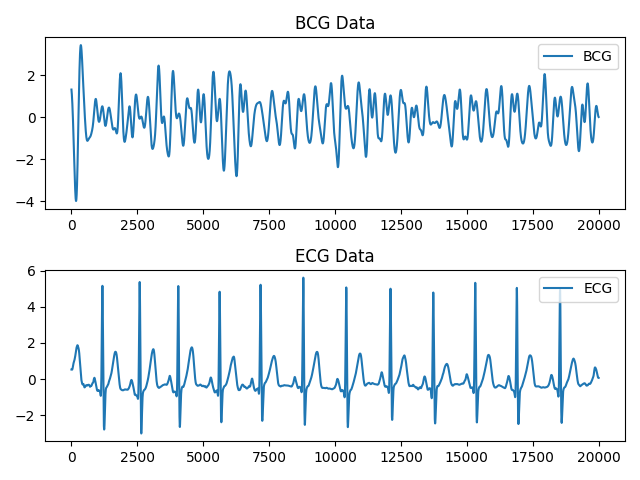
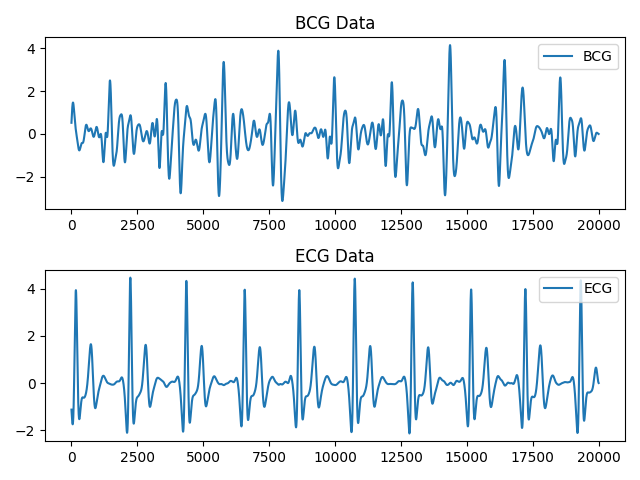
message

diff --git a/train.py b/train.py
@@ -2,31 +2,48 @@ from data.dataloader import MyDataModule
 from model.resnet import ResNet
 import torch
 import matplotlib.pyplot as plt
+from wuji.Preprocessor.signal import interp_heartbeat
+from utils.get_rri import get_rri
 
 def visualize(epoch, batch, output):
     print("Visualizing")
     bcg = batch["input"][0].numpy()
     ecg = batch["target"][0].numpy()
     rec = output.squeeze(1)[0].detach().cpu().numpy()
-    plt.figure(figsize=(10, 6))
-    plt.subplot(3, 1, 1) 
+    plt.figure(figsize=(10, 12))
+    plt.subplot(5, 1, 1) 
     plt.plot(bcg, label='BCG')
     plt.legend()
     plt.title('BCG Data')
 
-    plt.subplot(3, 1, 2)  
+    plt.subplot(5, 1, 2)  
     plt.plot(ecg, label='ECG')
+    ecg_rri = get_rri(ecg)
     plt.legend()
     plt.title('ECG Data')
 
-    plt.subplot(3, 1, 3)  
+    plt.subplot(5, 1, 3)  
+    plt.plot(ecg_rri, label='ECG_RRI')
+    plt.legend()
+    plt.title('ECG_RRI Data')
+
+    plt.subplot(5, 1, 4)  
     plt.plot(rec, label='REC')
+    rec_rri = get_rri(rec)
     plt.legend()
     plt.title('REC Data')
-    plt.tight_layout()
-    plt.savefig(f"./checkpoints/{epoch}.png")
-    print("Visualized")
 
+    plt.subplot(5, 1, 5)  
+    plt.plot(rec_rri, label='REC_RRI')
+    plt.legend()
+    plt.title('REC Data')
+
+    plt.tight_layout()
+
+    plt.savefig(f"./checkpoints_2/{epoch}.png")
+    print("Visualized")
+    
+	
 def main():
     dataloader = MyDataModule(
         dataprovider={
@@ -44,25 +61,13 @@ def main():
         },
     )
     dataloader.setup("fit")
-    model = ResNet(nf=16).to("cuda")
+    model = ResNet().to("cuda")
     optimizer = torch.optim.Adam(model.parameters(), lr=0.001)
     loss = []
     cur_loss = []
     tot_step = 0
     #wandb.init(project="bcg2psg")
     for epoch in range(50):
-        model.train()
-        for batch in dataloader.train_dataloader():
-            #print(batch["input"].shape)
-            tot_step += batch["input"].shape[0]
-            _ = model.get_loss(batch)
-            _.backward()
-            optimizer.step()
-            cur_loss.append(_.item())
-            if tot_step % 100 == 0:
-                loss.append(sum(cur_loss) / len(cur_loss))
-                print("Train Step: ", tot_step, "Loss: ", loss[-1])
-                cur_loss = []
         model.eval()
         val_loss = []
         with torch.no_grad():
@@ -71,7 +76,19 @@ def main():
                 val_loss.append(_.item())
                 if i == 0:
                     visualize(epoch, batch, model(batch["input"].to("cuda").unsqueeze(1)))
-
         print("Validation Loss: ", sum(val_loss) / len(val_loss))
+        model.train()
+        for batch in dataloader.train_dataloader():
+            #print(batch["input"].shape)
+            tot_step += 1
+            _ = model.get_loss(batch)
+            _.backward()
+            optimizer.step()
+            cur_loss.append(_.item())
+            if tot_step % 100 == 0:
+                loss.append(sum(cur_loss) / len(cur_loss))
+                print("Train Step: ", tot_step, "Loss: ", loss[-1])
+                cur_loss = []
+
 if __name__ == "__main__":
     main()

diff --git a/data/dataloader.py b/data/dataloader.py
@@ -48,7 +48,7 @@ class MyDataProvider(DataProvider[Path]):
                 with np.load(f"{data_root}/{src}/psg_quality_ecg_ECG II.npz") as f:
                     ecg_quality = f["quality"]
                     ecg_quality_freq = f["fs"]
-                for l in range(0, int(len(bcg_quality)//bcg_quality_freq) - 100, 1000):
+                for l in range(0, int(len(bcg_quality)//bcg_quality_freq) - 100, 50):
                     r = l + 10
                     # bcg_q.append(np.mean(bcg_quality[int(l * bcg_quality_freq) : int(r * bcg_quality_freq)]))
                     if np.mean(bcg_quality[int(l * bcg_quality_freq) : int(r * bcg_quality_freq)]) < 0.6:
@@ -60,11 +60,24 @@ class MyDataProvider(DataProvider[Path]):
                     bcg = nk.signal_filter(bcg, sampling_rate=bcg_freq.item(), lowcut=3, highcut=11).astype(np.float32)
                     bcg = zscore(bcg)
                     ecg = ecg_feature[l * ecg_freq : r * ecg_freq].astype(np.float32)
-                    ecg = nk.ecg_clean(ecg, sampling_rate = ecg_freq.item())
                     ecg = nk.signal_resample(ecg, desired_length = len(bcg))
-                    ecg, _ = nk.ecg_invert(ecg, sampling_rate = ecg_freq.item())
-                    ecg = nk.signal_filter(ecg, sampling_rate=ecg_freq.item(), lowcut=0, highcut=20).astype(np.float32)
+                    ecg = nk.ecg_clean(ecg, sampling_rate = bcg_freq.item())
+                    ecg = nk.signal_filter(ecg, sampling_rate=bcg_freq.item(), lowcut=3, highcut=11).astype(np.float32)
+                    ecg, _ = nk.ecg_invert(ecg, sampling_rate = bcg_freq.item())
+                    ecg, _ = nk.ecg_invert(ecg, sampling_rate = bcg_freq.item())
+                    assert(_ == 0)
                     ecg = zscore(ecg)
+                    # plt.figure()
+                    # plt.subplot(2, 1, 1) 
+                    # plt.plot(bcg, label='BCG')
+                    # plt.legend()
+                    # plt.title('BCG Data')
+                    # plt.subplot(2, 1, 2)  
+                    # plt.plot(ecg, label='ECG')
+                    # plt.legend()
+                    # plt.title('ECG Data')
+                    # plt.tight_layout()
+                    # plt.savefig("data.png")
                     # save bcg and ecg
                     np.save(f"{data_root}/{src}/{l}_bcg.npy", bcg)
                     np.save(f"{data_root}/{src}/{l}_ecg.npy", ecg)

diff --git a/model/resnet.py b/model/resnet.py
@@ -1,6 +1,8 @@
 import torch.nn as nn
 import torch.nn.functional as F
 import torch.nn.init as init
+from torchaudio.transforms import Spectrogram
+import neurokit2 as nk
 class BasicBlock(nn.Module):
     def __init__(self, in_c, out_c, stride):
         super(BasicBlock, self).__init__()
@@ -20,10 +22,10 @@ class BasicBlock(nn.Module):
         init.kaiming_normal_(self.conv1.weight)
         init.kaiming_normal_(self.conv2.weight)
     def forward(self, x):
-        out = F.relu(self.bn1(self.conv1(x)))
+        out = nn.GELU()(self.bn1(self.conv1(x)))
         out = self.bn2(self.conv2(out))
         out += self.shortcut(x)
-        out = F.relu(out)
+        out = nn.GELU()(out)
         return out
 
 
@@ -36,7 +38,7 @@ class ResNet(nn.Module):
             mult = nf * (2 ** i)
             self.layers += [nn.Conv1d(mult, mult * 2, 3, 2, 1, bias=False)]
             self.layers += [nn.BatchNorm1d(mult * 2)]
-            self.layers += [nn.ReLU(True)]
+            self.layers += [nn.GELU()]
         n_blocks = 6
         nf_ = nf * (2 ** n_downsample)
         for i in range(n_blocks):
@@ -45,7 +47,7 @@ class ResNet(nn.Module):
             mult = nf * (2 ** (n_downsample - i - 1))
             self.layers += [nn.ConvTranspose1d(mult * 2, mult, 3, 2, 1, 1, bias=False)]
             self.layers += [nn.BatchNorm1d(mult)]
-            self.layers += [nn.ReLU(True)]
+            self.layers += [nn.GELU()]
         self.layers += [nn.Conv1d(nf, 1, 7, 1, 3, bias=False)]
         self.model = nn.Sequential(*self.layers)
         for m in self.modules():
@@ -60,4 +62,4 @@ class ResNet(nn.Module):
         input = batch["input"].to("cuda").unsqueeze(1)
         target = batch["target"].to("cuda").unsqueeze(1)
         prediction = self(input)
-        return F.mse_loss(prediction, target).sum()
+        return nn.MSELoss()(prediction, target)

diff --git a/utils/get_rri.py b/utils/get_rri.py
@@ -1,0 +1,10 @@
+import neurokit2 as nk
+import numpy as np
+def get_rri(ecg_signal: np.ndarray, sampling_rate: int|None = 2000) -> np.ndarray:
+    ecg, info = nk.ecg_process(ecg_signal, sampling_rate=sampling_rate)
+
+    r_peaks = info["ECG_R_Peaks"]
+
+    rri = np.diff(r_peaks) / sampling_rate * 1000 
+
+    return rri
